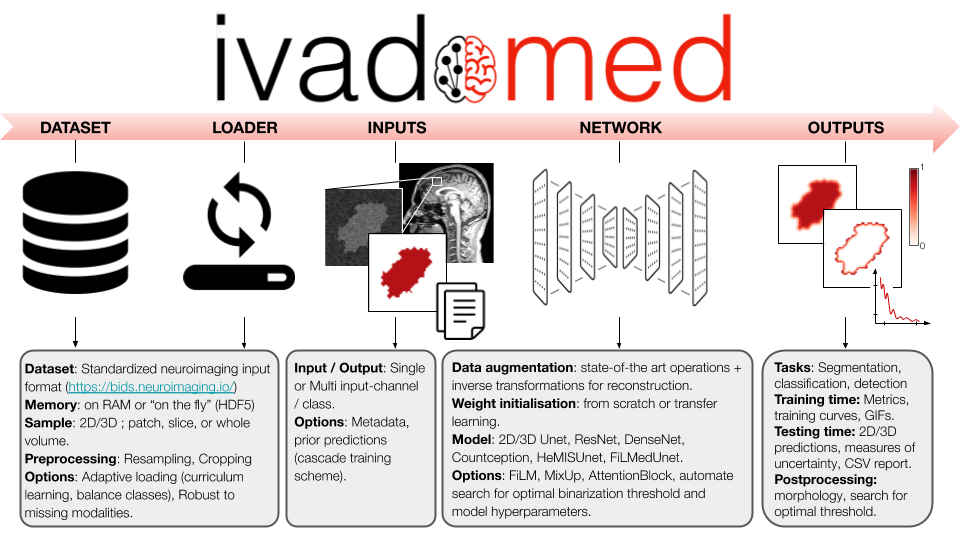
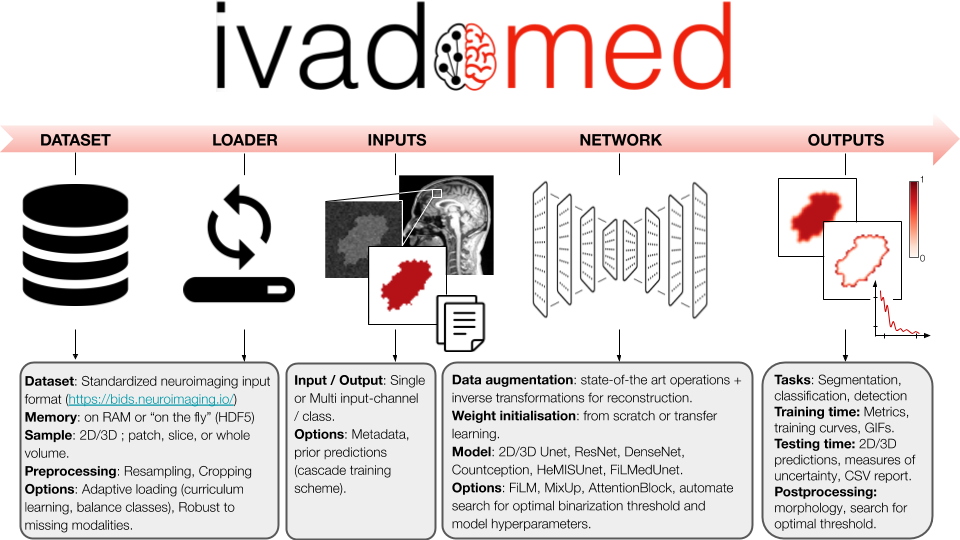
white space

diff --git a/README.md b/README.md
@@ -1,12 +1,10 @@
-![ivadomed Logo](https://github.com/ivadomed/ivadomed/raw/master/images/ivadomed_logo.png)
-
 Integrated framework for medical image analysis with deep learning.
 
 [![Coverage Status](https://coveralls.io/repos/github/ivadomed/ivadomed/badge.svg?branch=master)](https://coveralls.io/github/ivadomed/ivadomed?branch=master)
 ![](https://github.com/neuropoly/ivadomed/workflows/Python%20package/badge.svg)
 [![License: MIT](https://img.shields.io/badge/License-MIT-yellow.svg)](LICENSE.md)
 
-![ivadomed Overview](images/overview.png)
+![ivadomed Overview](images/overview_title.png)
 
 The technical documentation is available [here](https://ivadomed.org).
 
